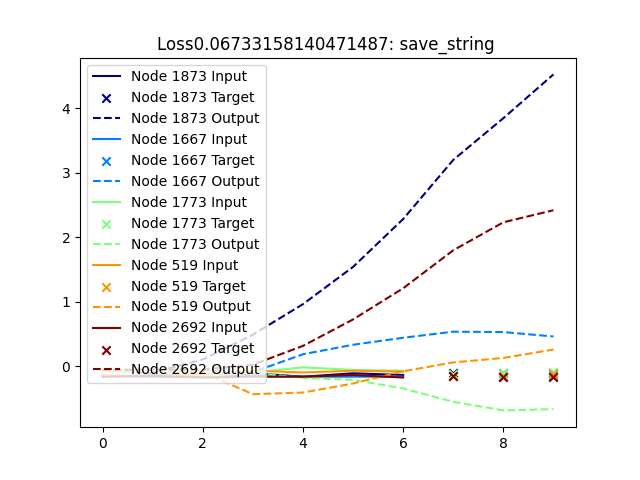
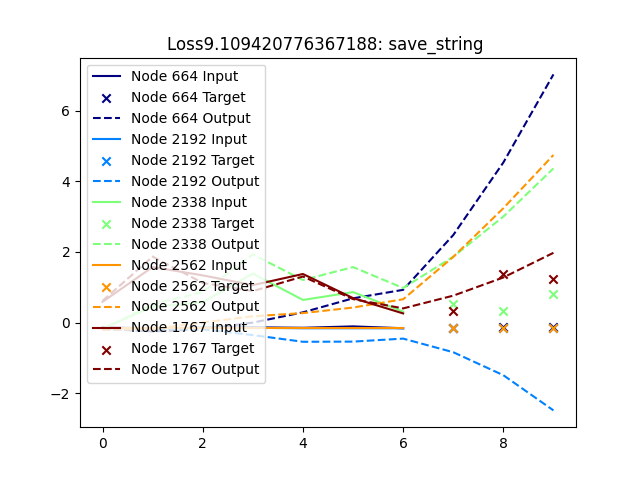
Added option to not normalize the edge weights. Also validation loss is quite high. Increasing MLP decreases train loss but does not generalize well. Will run large data with larger hidden tonight

diff --git a/GraphRNN/train_graph_rnn.py b/GraphRNN/train_graph_rnn.py
@@ -75,6 +75,7 @@ def train(model, train_loader, val_loader, criterion, optimizer, pred_hor, devic
         if epoch % (n_epochs/10) == 0:
             val_loss = 0
             for input_edge_weights, input_node_data, target_edge_weights, target_node_data in val_loader:
+                
                 input_edge_weights = input_edge_weights.to(device)
                 input_node_data = input_node_data.to(device)
                 target_edge_weights = target_edge_weights.to(device)
@@ -85,22 +86,17 @@ def train(model, train_loader, val_loader, criterion, optimizer, pred_hor, devic
 
             print(f"EPOCH: {epoch} ", end="")
             print(f"$ Train Loss: { train_loss:.3e} ", end="")
-            print(f"$ Validation Loss: { val_loss:.3e} ")
+            print(f"$ Validation Loss: { val_loss} ")
         #Calculate the average loss per prediction, so per node, per time step
  
         train_losses.append(train_loss)
-        val_losses.append(int(val_loss))
+        val_losses.append(val_loss.detach().cpu().tolist())
         if n_plots is not None:
             if epoch % (int(n_epochs)/n_plots)== 0 or epoch == n_epochs-1:
-
-                print(f"Input: {input_node_data[0, :, :5, 0]} ")
                 print(f"$ Output: {output[0, -pred_hor:, :5, 0]}")
                 print(f"$ Target: {target_node_data[0, :, :5, 0]}")
-                print(f"lr: {optimizer.param_groups[0]['lr']}")
-                print(f"shape of input_node_data: {input_node_data.shape}")
-                print(f"shape of output: {output.shape}")
-                print(f"shape of target_node_data: {target_node_data.shape}")
-                
+
+
                 plt.figure()
                 num_plot_nodes = 5
                 colors = plt.cm.jet(np.linspace(0, 1, num_plot_nodes))
@@ -126,25 +122,31 @@ def train(model, train_loader, val_loader, criterion, optimizer, pred_hor, devic
             json.dump(train_losses, f)
         with open(f"GraphRNN\losses\ val_losses_{save_string}.json", "w") as f:
             json.dump(val_losses, f)
-    return train_losses, parameter_mag, gradients, hidden_states
+    return train_losses, val_losses, parameter_mag, gradients, hidden_states
 
-config = {  "n_epochs": 1000,
-            "num_train_dates": 20,
-            "num_validation_dates": 13,
+config = {  "n_epochs": 130,
+            "num_train_dates": 60,
+            "num_validation_dates": 12,
             "input_hor": 7,
-            "pred_hor": 3,
+            "pred_hor": 1,
             "h_size": 70,
-            "batch_size": 50,
-            "lr": 0.0046,
+            "batch_size": 10,
+            "lr": 0.000066,
             "max_grad_norm": 1,
-            "num_lr_steps": 4,
-            "lr_decay": 0.5
+            "num_lr_steps": 5,
+            "lr_decay": 0.5,
+            "normalize_edge_weights": False
             
          }
 
 
 
 if __name__ == "__main__":
+    assert torch.cuda.is_available(), "CUDA not available"
+    assert config["input_hor"] + config["pred_hor"] <= config["num_train_dates"], "Input and prediction horizon too large for number of training dates"
+    assert config["input_hor"] + config["pred_hor"] <= config["num_validation_dates"], "Input and prediction horizon too large for number of validation dates"
+    
+    
     print("Starting training run...")
     flow_dataset = "data/daily_county2county_2019_01_01.csv"
     epi_dataset = "data_epi/epidemiology.csv"
@@ -155,8 +157,8 @@ if __name__ == "__main__":
                  ]
 
     epi_dates = epi_dates[:config["num_train_dates"] + config["num_validation_dates"]]
-
-    print(config["num_train_dates"] + config["num_validation_dates"])
+    
+    
     
     print("Loading data...")
     data_set = GraphRNN_dataset(epi_dates = epi_dates,
@@ -164,8 +166,9 @@ if __name__ == "__main__":
                                 epi_dataset = epi_dataset,
                                 input_hor=config["input_hor"],
                                 pred_hor=config["pred_hor"],
-                                fake_data=False)
-    print(len(data_set))
+                                fake_data=False,
+                                normalize_edge_weights=config["normalize_edge_weights"])
+
     train_data_set = torch.utils.data.Subset(data_set, range(config["num_train_dates"]+1-config["input_hor"]-config["pred_hor"]))
     val_data_set = torch.utils.data.Subset(data_set,
                                            range(config["num_train_dates"],
@@ -239,10 +242,15 @@ if __name__ == "__main__":
             with_stack=True
         ) as prof:
             print("Starting training with profiling...")
-            losses, parameter_mag = train(model, data_loader,
-                                    criterion, optimizer,
-                                    config["pred_hor"], device, n_epochs=config["n_epochs"],
-                                    save_name="model_state_dict.pth")
+            train_losses, val_losses, parameter_mag, gradients, hidden_state_mag = train(model = model , train_loader = train_loader, val_loader = val_loader, criterion=
+                        criterion, optimizer=optimizer,pred_hor=
+                        config["pred_hor"], device=device, 
+                        learning_rate_scheduler=learning_rate_scheduler,
+                        n_epochs=config["n_epochs"],
+                        max_grad_norm=config["max_grad_norm"],
+                        save_name="test",
+                        n_plots=5
+                        )
             print("Finished training with profiling.")
             # Verify that the log directory is populated
         if os.listdir(log_dir):
@@ -250,7 +258,7 @@ if __name__ == "__main__":
         else:
             print(f"No log files found in {log_dir}")
     else:
-        losses, parameter_mag, gradients, hidden_state_mag = train(model = model , train_loader = train_loader, val_loader = val_loader, criterion=
+        train_losses, val_losses, parameter_mag, gradients, hidden_state_mag = train(model = model , train_loader = train_loader, val_loader = val_loader, criterion=
                         criterion, optimizer=optimizer,pred_hor=
                         config["pred_hor"], device=device, 
                         learning_rate_scheduler=learning_rate_scheduler,
@@ -263,7 +271,8 @@ if __name__ == "__main__":
 
     
     print("Plotting losses...")
-    plt.plot(losses)
+    plt.plot(train_losses, label="Train Loss")
+    plt.plot(val_losses, label="Validation Loss")
     plt.xlabel("Iteration")
     plt.ylabel("Loss")
     plt.yscale("log")

diff --git a/GraphRNN/GraphRNN_utils.py b/GraphRNN/GraphRNN_utils.py
@@ -10,11 +10,12 @@ from preprocessor import Preprocessor
 import matplotlib.pyplot as plt
 
 class GraphRNN_dataset(torch.utils.data.Dataset):
-    def __init__(self, epi_dates, flow_dataset="data/daily_county2county_2019_01_01.csv", epi_dataset="data_epi/epidemiology.csv", input_hor=4, pred_hor=1, fake_data=False):
+    def __init__(self, epi_dates, flow_dataset="data/daily_county2county_2019_01_01.csv", 
+                 epi_dataset="data_epi/epidemiology.csv", input_hor=4, pred_hor=1, fake_data=False, normalize_edge_weights=True):
         super(GraphRNN_dataset, self).__init__()
         self.input_hor = input_hor
         self.pred_hor = pred_hor
-        
+        self.normalize_edge_weights = normalize_edge_weights
         if fake_data:
             self.generate_fake_data()
             return
@@ -50,9 +51,13 @@ class GraphRNN_dataset(torch.utils.data.Dataset):
         self.edge_weights =  self.calc_edge_weights(flow_df)
         self.node_data = self.calc_node_data(signals_df)
         
-        mean_edge_weight = self.edge_weights[:, :, 2].mean().item()
-        std_dev_edge_weight = self.edge_weights[:, :, 2].std().item()
-        self.edge_weights[:, :, 2] = (self.edge_weights[:, :, 2] - mean_edge_weight) / std_dev_edge_weight
+        if normalize_edge_weights:
+            mean_edge_weight = self.edge_weights[:, :, 2].mean().item()
+            std_dev_edge_weight = self.edge_weights[:, :, 2].std().item()
+            self.edge_weights[:, :, 2] = (self.edge_weights[:, :, 2] - mean_edge_weight) / std_dev_edge_weight
+        else:
+            max_edge_weight = self.edge_weights[:, :, 2].max().item()
+            self.edge_weights[:, :, 2] = self.edge_weights[:, :, 2] / max_edge_weight
 
         for feature in range(self.n_features):
             mean_node_data = self.node_data[:, :, feature].mean().item()
